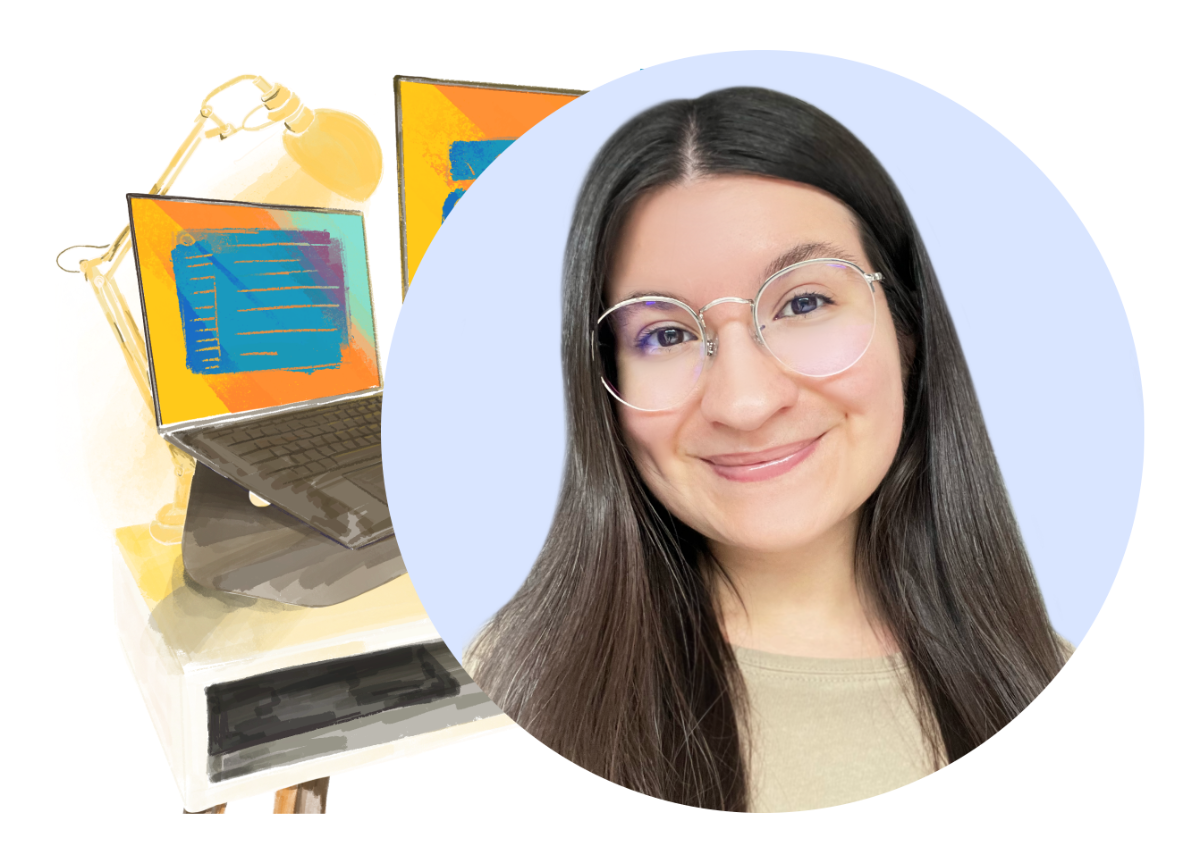
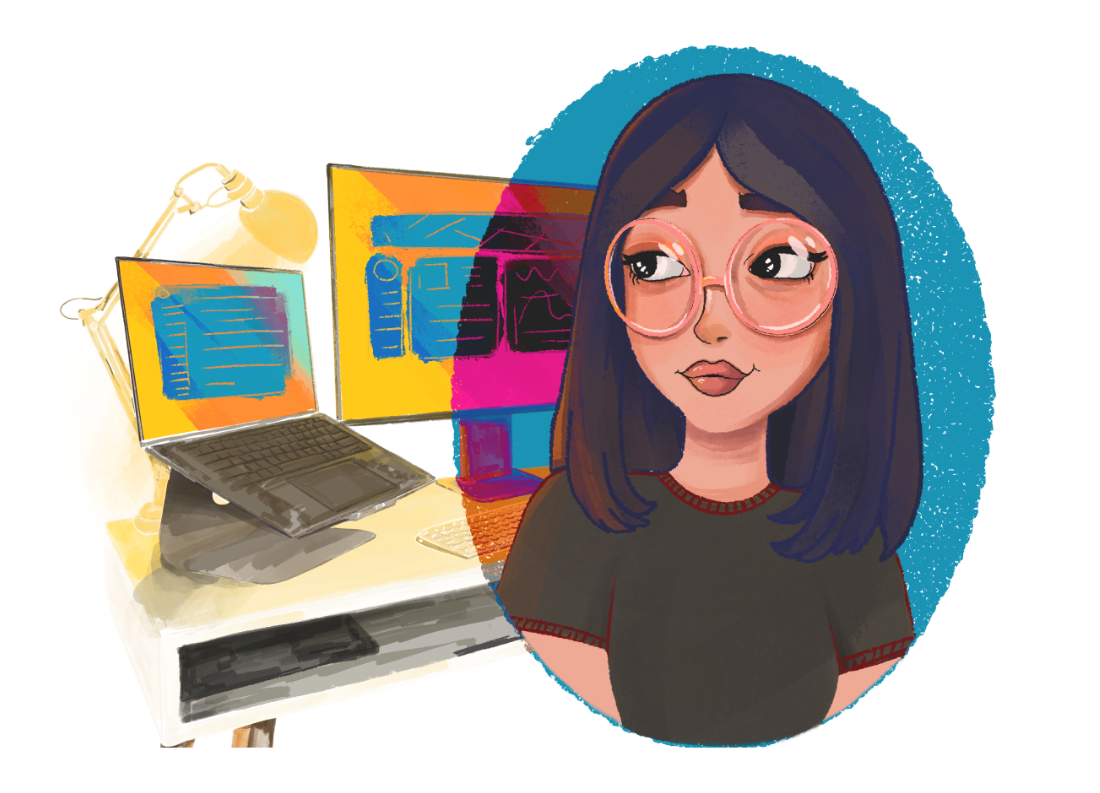
Hide personal photos

diff --git a/about.html b/about.html
@@ -45,7 +45,7 @@
             </header>
 
             <section class="section">
-                <div class="horizontal__layout">
+                <div class="horizontal__layout__about__me">
                     <div>
                         <div class="intro">
                             <h1 class="intro__description">Who am I?</h1>
@@ -59,7 +59,7 @@
                     </div>
                     
                     <div>
-                        <img class="photo__100" src="/images/ana.webp" alt="A photo with Ana Dima">
+                        <img class="photo__aboutme" src="/images/ana.webp" alt="A photo with Ana Dima">
                     </div>
                 </div>
             </section>
@@ -116,7 +116,7 @@
                     </div> -->
             </section>
 
-            <section class="section">
+            <!-- <section class="section">
                 <h2 class="paragraph__section"> Unreleated with UX</h2>
                 <p class="default__text__mbottom"> I'm an introvert human being, with a passion for long walks, 
                     museums, books, binge-watching, flowers, cats and cappuccino. I love cooking simple stuff at home, drawing and take pictures of every single thing. </p>
@@ -151,7 +151,7 @@
                         </div>
     
                         <div class="work__entry__empty"> </div>
-            </section>
+            </section> -->
 
             <p class="copyright"> © 2025 Designed and implemented by Ana </p>
 

diff --git a/index.html b/index.html
@@ -258,9 +258,9 @@
                     <p class="box__text"> Let's chat about a possible future collaboration or simply about hobbies and design. Excited to connect on LinkedIn and start chatting! </p>
                     <p class="box__text"> Thank you very much for your time & take care 💙</p>
                     <div class="contact__links">
-                        <p class="contact__details__text"> <!-- Email: <a class="text-highlight" href="mailto:anadima@proton.me">anadima@proton.me</a> </p> 
-                        <p class="contact__details__text"> Instagram: <a class="text-highlight" target="_blank" href="https://www.instagram.com/anartisth/">anartisth</a> </p> -->
+                        <p class="contact__details__text"> <!-- Email: <a class="text-highlight" href="mailto:anadima@proton.me">anadima@proton.me</a> </p> -->
                         <p class="contact__details__text"> LinkedIn: <a class="text-highlight" target="_blank" href="https://www.linkedin.com/in/dima-ana/">dima-ana</a> </p>
+                        <p class="contact__details__text"> Instagram: <a class="text-highlight" target="_blank" href="https://www.instagram.com/anartisth/">anartisth</a> </p>
                         <p class="contact__details__text"> Behance: <a class="text-highlight" target="_blank" href="https://www.behance.net/dimaana-maria#">dimaana-maria</a> </p>
             </section>
 

diff --git a/styles/styles.css b/styles/styles.css
@@ -367,6 +367,14 @@ body {
     height: auto;
 }
 
+.photo__aboutme {
+    max-width: 500px;
+    height: auto;
+    width: 100%;
+    min-width: 100px;
+    height: auto;
+}
+
 .photo__centered {
     height: auto;
     width: 100%;
@@ -388,7 +396,13 @@ body {
     display: flex;
     justify-content: space-between;
     gap: 100px;
+}
 
+.horizontal__layout__about__me {
+    display: flex;
+    justify-content: space-between;
+    gap: 100px;
+    align-items: center;
 }
 
 .social__media {
@@ -499,11 +513,37 @@ body {
         margin-top: 2.75rem;
         padding-top: 4.25rem;
     }
+
+    .photo__aboutme {
+        max-width: 500px;
+        height: auto;
+        width: 100%;
+        min-width: 100px;
+        height: auto;
+    }
+
+    .horizontal__layout__about__me {
+        display: flex;
+        justify-content: space-between;
+        gap: 100px;
+        align-items: center;
+    }
 }
 
 @media (max-width: 1120px) {
     .content {
         max-width: 800px;
+    }
+
+    .horizontal__layout__about__me {
+        display: block;
+        justify-content: space-between;
+        gap: 100px;
+        align-items: center;
+    }
+
+    .photo__aboutme {
+        max-width: 650px;
     }
     
     .section {
@@ -640,7 +680,7 @@ body {
 
 @media (max-width: 480px) {
     .content {
-        padding: 0 10px;
+        padding: 0 20px;
     }
 
     .section {

diff --git a/work/waters-documentation.html b/work/waters-documentation.html
@@ -331,7 +331,7 @@
                             <p class="default__text"> 🤜 🤛 Together, these principles create a strong foundation for <b>sustained organizational growth and success.</b> </p>
                     </div>
                 </section>
-                <img class="hero__image" src="/images/waters_team.webp" alt="Ana's team at Waters">
+                <!-- <img class="hero__image" src="/images/waters_team.webp" alt="Ana's team at Waters"> -->
 
                 <section class="section__thankyou">
                     <p class="notes"> Thank you very much for your time! </p>
